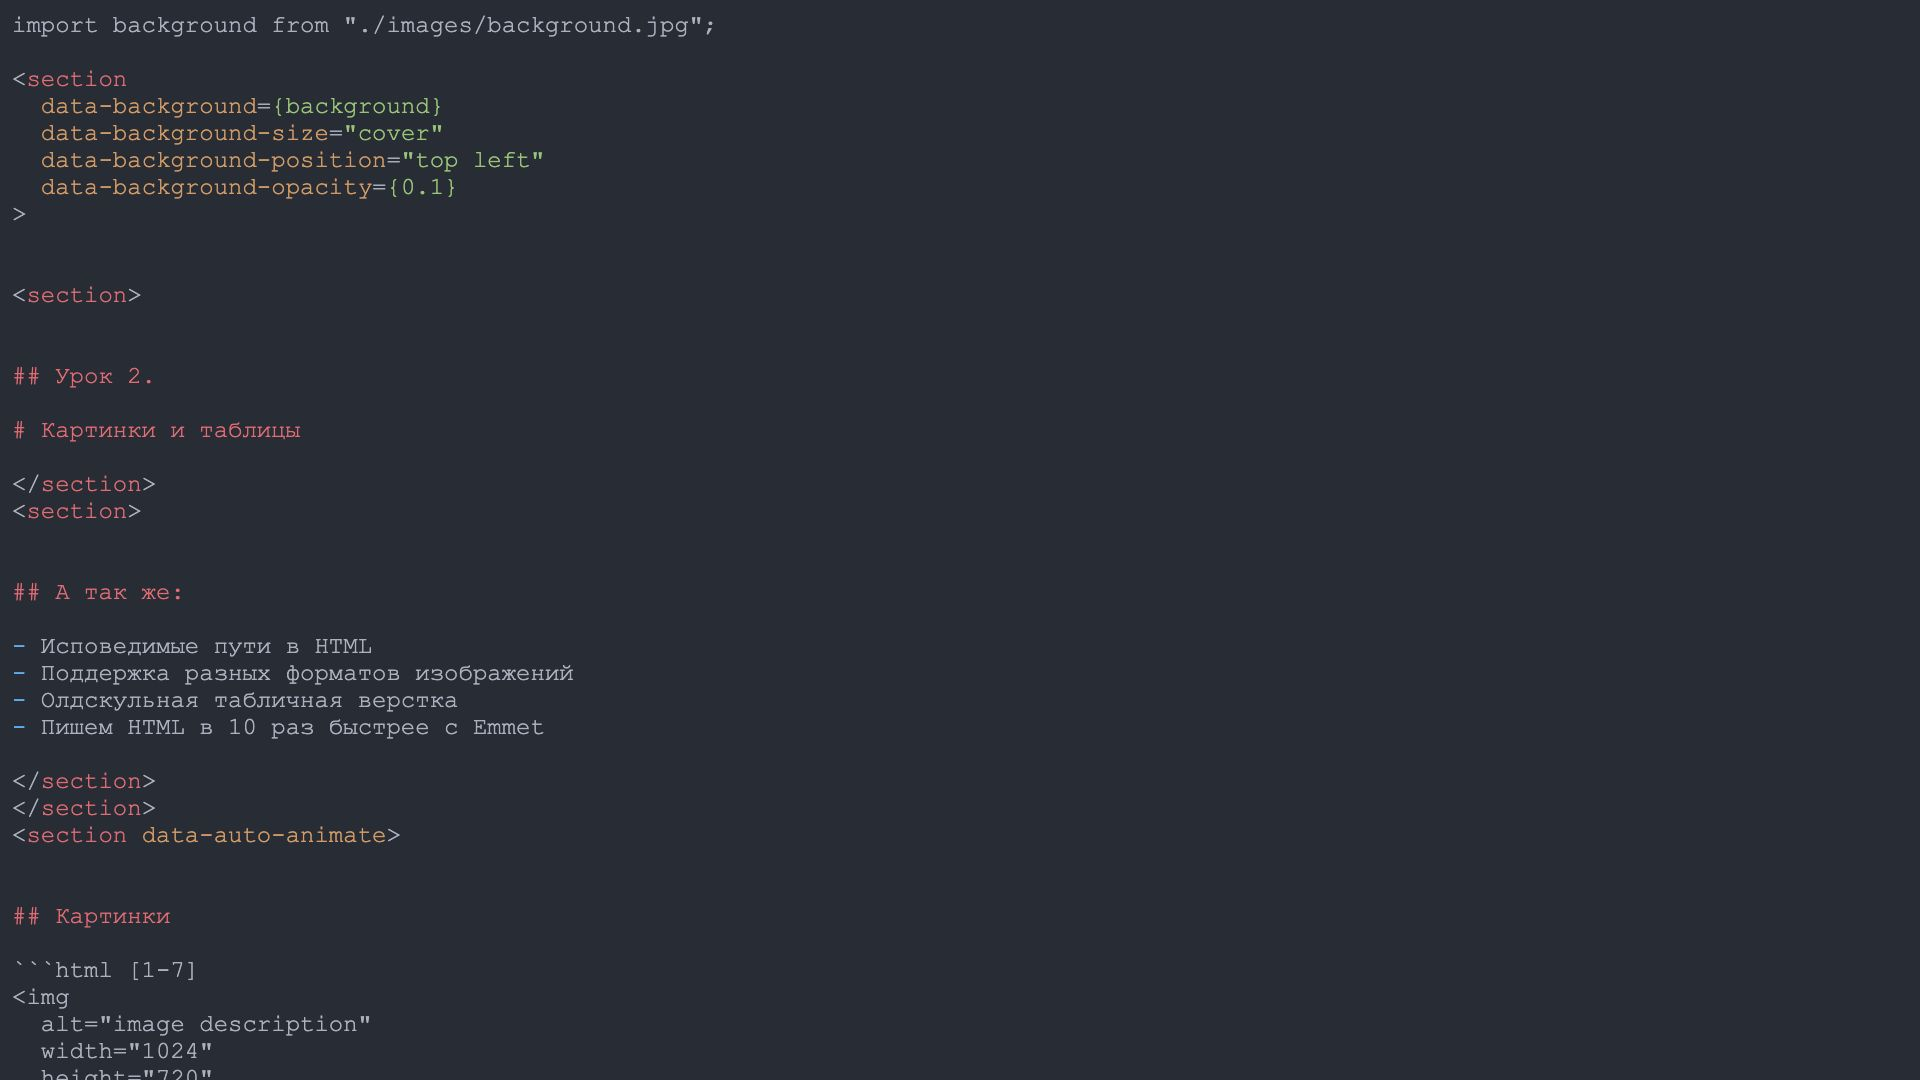
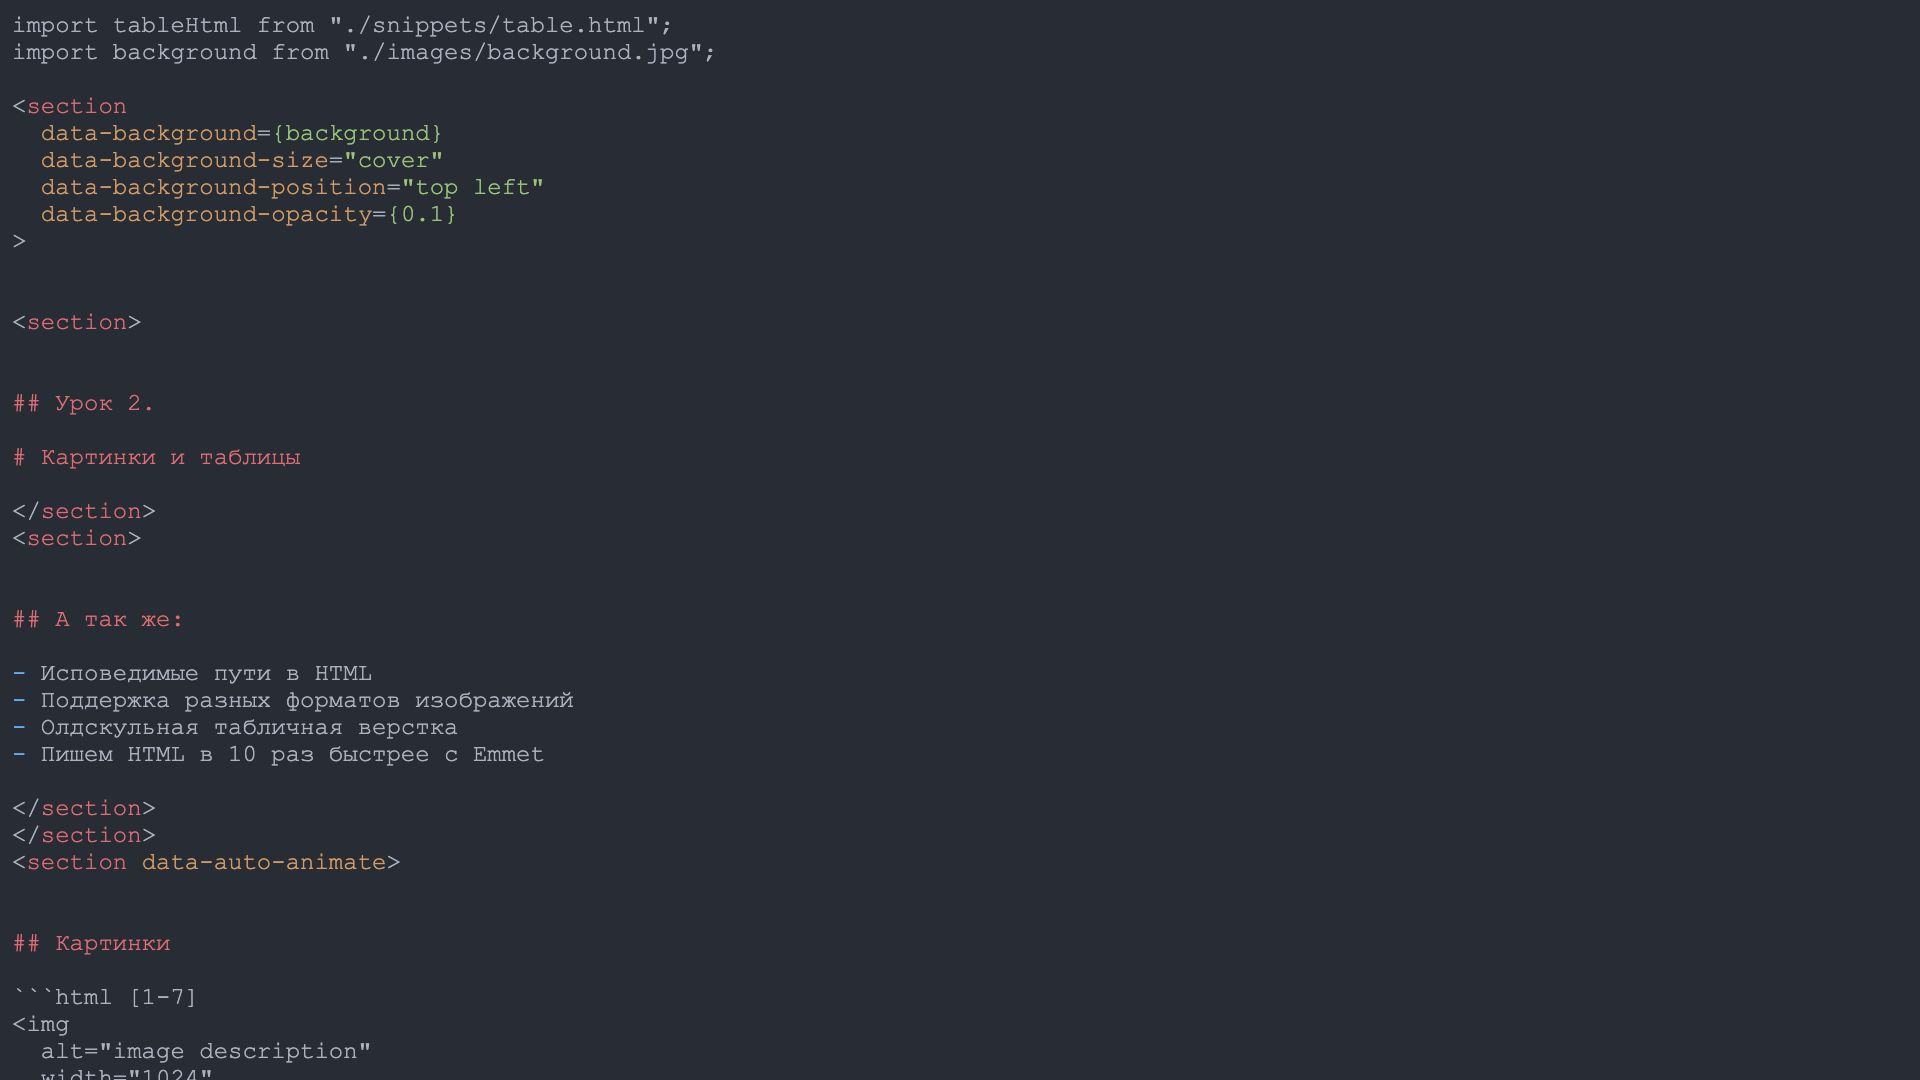
add table

diff --git a/src/components/lessons/mdx/index.js b/src/components/lessons/mdx/index.js
@@ -12,7 +12,7 @@ const Code = props => {
     return <code {...propsCopy} data-line-numbers={htmlLineNumbers} />;
   }
 
-  return <code {...props} />;
+  return <code data-line-numbers {...props} />;
 };
 
 const A = props => <a {...props} target="blank" />;
@@ -22,4 +22,5 @@ export default {
   code: Code,
   a: A,
   HorizontalCodeEditor,
+  Code,
 };

diff --git a/src/pages/lessons/html/02-html/snippets/table.html b/src/pages/lessons/html/02-html/snippets/table.html
@@ -1,0 +1,14 @@
+<table border="1">
+  <thead>
+    <tr>
+      <th>Заголовок 1</th>
+      <th>Заголовок 2</th>
+    </tr>
+  </thead>
+  <tbody>
+    <tr>
+      <td>Ячейка 1</td>
+      <td>Ячейка 2</td>
+    </tr>
+  </tbody>
+</table>
